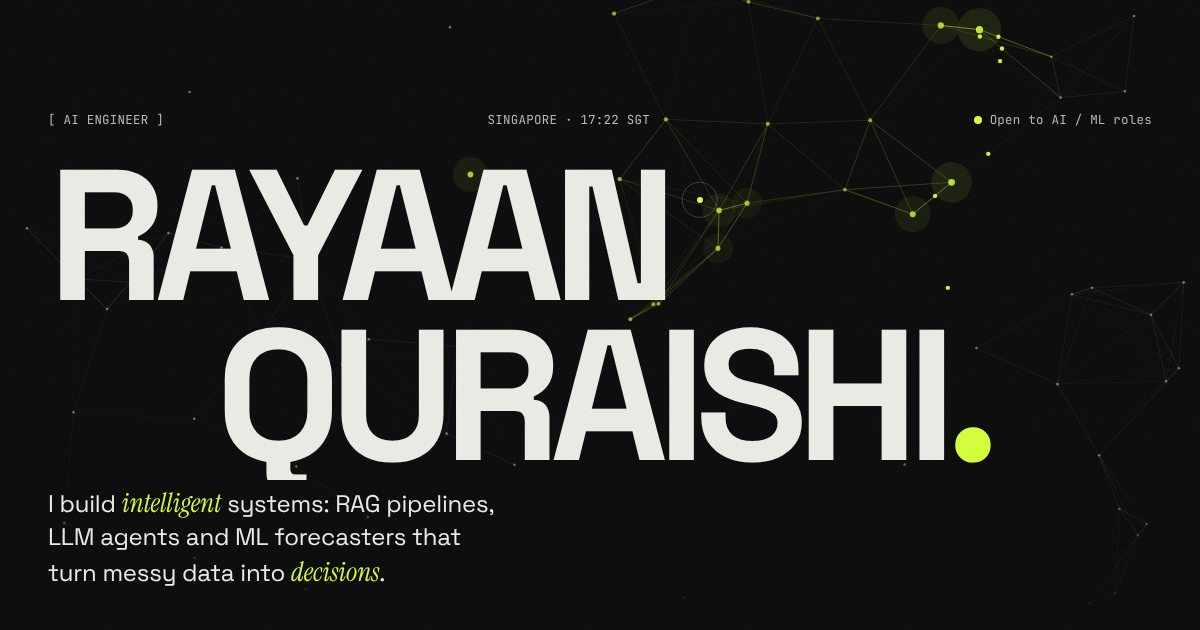
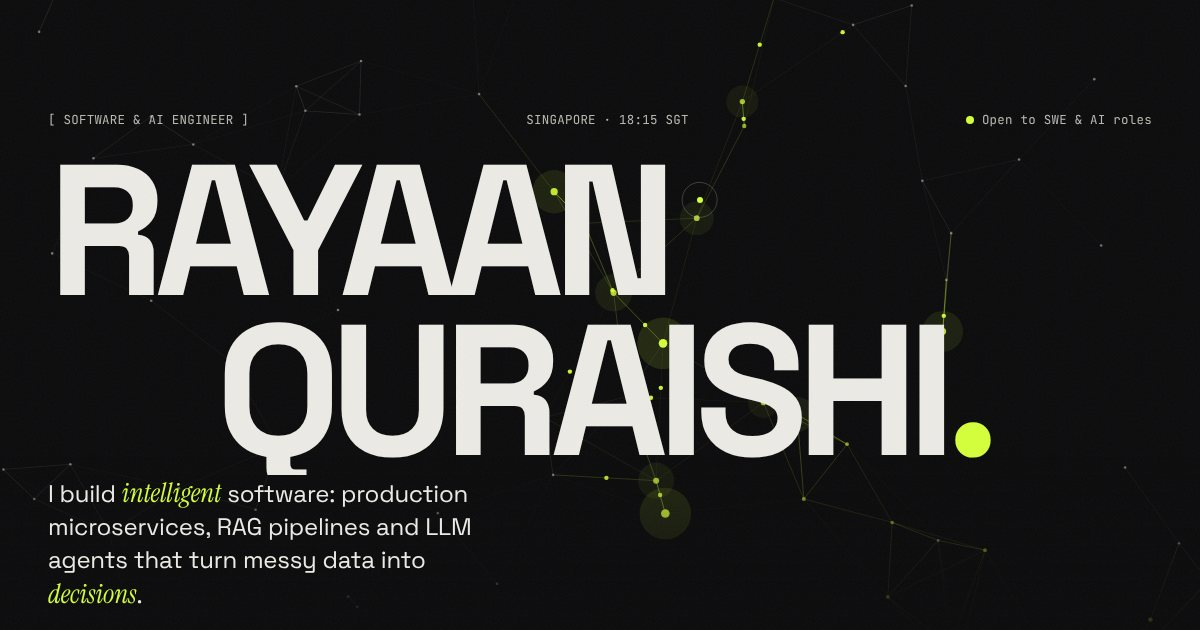
Update content from July 2026 resume
Add the BIOTRONIK Software Developer internship, NUS GPA and updated
coursework, new skills (Java, JUnit, Mockito, Azure, Kubernetes,
GitHub Actions, Grafana), and position the site for Software
Development and AI Engineering roles.

diff --git a/index.html b/index.html
@@ -3,15 +3,15 @@
 <head>
   <meta charset="utf-8" />
   <meta name="viewport" content="width=device-width, initial-scale=1, viewport-fit=cover" />
-  <title>Rayaan Quraishi — AI Engineer</title>
-  <meta name="description" content="Rayaan Quraishi — AI engineer and MComp (AI) student at NUS. I build RAG pipelines, LLM agents and ML forecasting systems." />
+  <title>Rayaan Quraishi — Software &amp; AI Engineer</title>
+  <meta name="description" content="Rayaan Quraishi — software and AI engineer, MComp (AI) student at NUS and Software Developer Intern at BIOTRONIK. Open to Software Development and AI Engineering roles." />
   <meta name="author" content="Rayaan Quraishi" />
   <meta name="theme-color" content="#0b0b0c" />
   <link rel="canonical" href="https://rayaanq.github.io/Portfolio/" />
 
   <meta property="og:type" content="website" />
-  <meta property="og:title" content="Rayaan Quraishi — AI Engineer" />
-  <meta property="og:description" content="RAG pipelines, LLM agents and ML forecasters that turn messy data into decisions." />
+  <meta property="og:title" content="Rayaan Quraishi — Software &amp; AI Engineer" />
+  <meta property="og:description" content="Production microservices, RAG pipelines and LLM agents. Open to Software Development and AI Engineering roles." />
   <meta property="og:url" content="https://rayaanq.github.io/Portfolio/" />
   <meta property="og:image" content="https://rayaanq.github.io/Portfolio/assets/img/og.jpg" />
   <meta name="twitter:card" content="summary_large_image" />
@@ -39,7 +39,7 @@
     "@context": "https://schema.org",
     "@type": "Person",
     "name": "Rayaan Quraishi",
-    "jobTitle": "AI Engineer",
+    "jobTitle": "Software & AI Engineer",
     "email": "mailto:rayyaanquraishi@gmail.com",
     "address": { "@type": "PostalAddress", "addressLocality": "Singapore" },
     "alumniOf": ["National University of Singapore", "University of Mumbai"],
@@ -93,9 +93,9 @@
     <section class="hero" id="top">
       <canvas class="hero__canvas" id="neural" aria-hidden="true"></canvas>
       <div class="hero__meta mono">
-        <span>[ AI ENGINEER ]</span>
+        <span>[ SOFTWARE &amp; AI ENGINEER ]</span>
         <span class="hide-sm">SINGAPORE · <span id="clock">--:--</span> SGT</span>
-        <span class="status"><i></i>Open to AI / ML roles</span>
+        <span class="status"><i></i>Open to SWE &amp; AI roles</span>
       </div>
 
       <h1 class="hero__title" aria-label="Rayaan Quraishi">
@@ -105,7 +105,7 @@
 
       <div class="hero__bottom">
         <p class="hero__lede">
-          I build <em class="serif">intelligent</em> systems: RAG pipelines, LLM agents and ML forecasters
+          I build <em class="serif">intelligent</em> software: production microservices, RAG pipelines and LLM agents
           that turn messy data into <em class="serif">decisions</em>.
         </p>
         <div class="hero__role mono" aria-live="polite">
@@ -127,7 +127,7 @@
     <!-- ============ MARQUEE ============ -->
     <div class="marquee" aria-hidden="true">
       <div class="marquee__track">
-        <span>LangChain</span><i>✦</i><span>RAG</span><i>✦</i><span>LLM Agents</span><i>✦</i><span>PyTorch</span><i>✦</i><span>TensorFlow</span><i>✦</i><span>FastAPI</span><i>✦</i><span>AWS</span><i>✦</i><span>Docker</span><i>✦</i><span>XGBoost</span><i>✦</i><span>LSTM</span><i>✦</i><span>React</span><i>✦</i><span>Node.js</span><i>✦</i><span>MongoDB</span><i>✦</i><span>Hadoop</span><i>✦</i>
+        <span>LangChain</span><i>✦</i><span>RAG</span><i>✦</i><span>LLM Agents</span><i>✦</i><span>PyTorch</span><i>✦</i><span>TensorFlow</span><i>✦</i><span>FastAPI</span><i>✦</i><span>Spring Boot</span><i>✦</i><span>Java</span><i>✦</i><span>AWS</span><i>✦</i><span>Azure</span><i>✦</i><span>Docker</span><i>✦</i><span>Kubernetes</span><i>✦</i><span>XGBoost</span><i>✦</i><span>LSTM</span><i>✦</i><span>React</span><i>✦</i><span>Node.js</span><i>✦</i><span>MongoDB</span><i>✦</i><span>Hadoop</span><i>✦</i>
         <span>LangChain</span><i>✦</i><span>RAG</span><i>✦</i><span>LLM Agents</span><i>✦</i><span>PyTorch</span><i>✦</i><span>TensorFlow</span><i>✦</i><span>FastAPI</span><i>✦</i><span>AWS</span><i>✦</i><span>Docker</span><i>✦</i><span>XGBoost</span><i>✦</i><span>LSTM</span><i>✦</i><span>React</span><i>✦</i><span>Node.js</span><i>✦</i><span>MongoDB</span><i>✦</i><span>Hadoop</span><i>✦</i>
       </div>
     </div>
@@ -290,9 +290,10 @@
         <h2 class="section__title">About <em class="serif">me</em></h2>
       </header>
       <p class="statement" id="statement">
-        I'm a Master's student in Artificial Intelligence at the National University of Singapore. I came from a
-        Computer Engineering degree in Mumbai, where I graduated with a 9.97/10 GPA. I like the part of AI where models
-        meet the real world: retrieval, agents, evaluation, deployment. The question I keep asking is
+        I'm a Master's student in Artificial Intelligence at the National University of Singapore and a Software
+        Developer Intern at BIOTRONIK, where I help move a medical platform from a monolith to microservices. Before
+        that I earned a Computer Engineering degree in Mumbai with a 9.97/10 GPA. I like the part of software where
+        models meet the real world: retrieval, agents, testing, deployment. The question I keep asking is
         whether the system actually helps someone decide something.
       </p>
 
@@ -310,15 +311,15 @@
         </div>
         <div class="toolbox__group reveal">
           <h3 class="mono">Languages</h3>
-          <ul class="chips"><li>Python</li><li>C++</li><li>JavaScript</li><li>TypeScript</li><li>SQL</li><li>HTML / CSS</li></ul>
+          <ul class="chips"><li>Python</li><li>Java</li><li>C++</li><li>JavaScript</li><li>TypeScript</li><li>SQL</li><li>HTML / CSS</li></ul>
         </div>
         <div class="toolbox__group reveal">
           <h3 class="mono">Backend &amp; Web</h3>
-          <ul class="chips"><li>FastAPI</li><li>Node.js</li><li>Express</li><li>Spring Boot</li><li>React</li><li>Next.js</li><li>Streamlit</li></ul>
+          <ul class="chips"><li>Spring Boot</li><li>FastAPI</li><li>Node.js</li><li>Express</li><li>React</li><li>Next.js</li><li>JUnit</li><li>Mockito</li></ul>
         </div>
         <div class="toolbox__group reveal">
-          <h3 class="mono">Data &amp; Cloud</h3>
-          <ul class="chips"><li>AWS</li><li>Docker</li><li>Apache Hadoop</li><li>MongoDB</li><li>MySQL</li><li>SQLite</li><li>Git</li></ul>
+          <h3 class="mono">Cloud, DevOps &amp; Data</h3>
+          <ul class="chips"><li>AWS</li><li>Azure</li><li>Docker</li><li>Kubernetes</li><li>GitHub Actions</li><li>Grafana</li><li>Apache Hadoop</li><li>MongoDB</li><li>MySQL</li><li>SQLite</li><li>Git</li></ul>
         </div>
       </div>
     </section>
@@ -332,11 +333,19 @@
 
       <ol class="timeline">
         <li class="tl reveal">
+          <div class="tl__when mono">Dec 2025 — Now</div>
+          <div class="tl__what">
+            <h3>Software Developer Intern</h3>
+            <p class="tl__org">BIOTRONIK · Singapore</p>
+            <p>Helping migrate a monolith to <strong>Spring Boot microservices</strong> with JUnit and Mockito test coverage in a regulated medical environment. I also streamline CI/CD with Docker, Kubernetes and Azure, build Grafana dashboards for observability, and help roll out <strong>Claude Code</strong> for AI-assisted development across global teams.</p>
+          </div>
+        </li>
+        <li class="tl reveal">
           <div class="tl__when mono">Aug 2025 — Now</div>
           <div class="tl__what">
-            <h3>Master of Computing, Artificial Intelligence</h3>
+            <h3>Master of Computing, Artificial Intelligence · <span class="accent">GPA 4.67 / 5</span></h3>
             <p class="tl__org">National University of Singapore</p>
-            <p>AI Ethics &amp; Governance · Neural Networks &amp; Deep Learning · Big Data Systems</p>
+            <p>Cloud Computing · Neural Networks &amp; Deep Learning · Big Data Systems</p>
           </div>
         </li>
         <li class="tl reveal">
@@ -429,7 +438,7 @@
         <span class="line">Let's build</span>
         <span class="line"><em class="serif">something</em> smart.</span>
       </h2>
-      <p class="contact__lede">I'm looking for AI / ML engineering roles and research collaborations. If you're working on retrieval, agents or applied ML, I'd love to hear from you.</p>
+      <p class="contact__lede">I'm looking for Software Development and AI Engineering roles. If you're building backend systems, retrieval, agents or applied ML, I'd love to hear from you.</p>
       <div class="contact__actions">
         <button class="email magnetic" id="copyEmail" type="button" data-email="rayyaanquraishi@gmail.com">
           <span class="email__addr">rayyaanquraishi@gmail.com</span>

diff --git a/assets/js/main.js b/assets/js/main.js
@@ -555,7 +555,7 @@
 
   function roles() {
     const el = $('#role');
-    const list = ['MComp AI @ NUS', 'building RAG pipelines', 'shipping LLM agents', 'forecasting with LSTMs', 'AWS Certified Developer', 'open to AI / ML roles'];
+    const list = ['MComp AI @ NUS', 'SWE Intern @ BIOTRONIK', 'building microservices', 'shipping LLM agents', 'building RAG pipelines', 'AWS Certified Developer', 'open to SWE & AI roles'];
     if (reduced) return;
     let i = 0;
     async function type(text) {
@@ -568,6 +568,7 @@
 
   const FACTS = [
     'I moved from Mumbai to Singapore to study AI.',
+    'I help roll out Claude Code to software teams at BIOTRONIK.',
     'I graduated with a 9.97 / 10 GPA. That last 0.03 still haunts me.',
     'I published at a Springer Nature conference before finishing my bachelor\'s.',
     'I was the Tech Head at MUN: mics, projectors and panic.',
@@ -877,7 +878,7 @@
       ['██████   ██████ ', '<span class="accent">guest</span>@<span class="accent">rayaan</span>'],
       ['██   ██ ██    ██', '----------------'],
       ['██████  ██    ██', '<span class="accent">OS</span>: rayaan.os 2026 (vanilla js)'],
-      ['██   ██ ██ ▄▄ ██', '<span class="accent">Host</span>: National University of Singapore'],
+      ['██   ██ ██ ▄▄ ██', '<span class="accent">Host</span>: NUS · BIOTRONIK'],
       ['██   ██  ██████ ', '<span class="accent">Kernel</span>: MComp, Artificial Intelligence'],
       ['            ▀▀  ', '<span class="accent">Shell</span>: python · c++ · javascript'],
       ['                ', '<span class="accent">Packages</span>: langchain, pytorch, fastapi, aws'],
@@ -900,8 +901,8 @@
   <span class="accent">clear</span>        clear the screen
   <span class="accent">exit</span>         close the terminal
 <span class="muted">…and maybe a secret or two. Try sudo.</span>`,
-      whoami: () => 'Rayaan Quraishi: AI engineer, MComp (AI) student at NUS, based in Singapore.',
-      about: () => 'I build intelligent systems: RAG pipelines, LLM agents and ML forecasters.\nB.E. Computer Engineering (GPA 9.97/10), AWS Certified Developer, Springer-published.',
+      whoami: () => 'Rayaan Quraishi: software & AI engineer, MComp (AI) student at NUS, Software Developer Intern at BIOTRONIK, based in Singapore.\nOpen to Software Development and AI Engineering roles.',
+      about: () => 'I build intelligent software: production microservices, RAG pipelines and LLM agents.\nMComp AI @ NUS (GPA 4.67/5), B.E. Computer Engineering (GPA 9.97/10), AWS Certified Developer, Springer-published.',
       projects: () => projects.map((p) => `<span class="accent">[${p.n}]</span> ${esc(p.title)}\n    <span class="muted">${esc(p.desc.slice(0, 96))}…</span>`).join('\n') + '\n\nType <span class="accent">open &lt;n&gt;</span> for the case study.',
       open: (arg) => {
         const p = projects.find((x) => String(x.n) === arg || x.id === arg);

diff --git a/README.md b/README.md
@@ -2,7 +2,7 @@
 
 # Rayaan Quraishi — Portfolio
 
-**AI engineer · MComp (AI) @ NUS · building RAG pipelines, LLM agents and ML forecasters**
+**Software & AI engineer · MComp (AI) @ NUS · SWE Intern @ BIOTRONIK · open to Software Development and AI Engineering roles**
 
 [**→ rayaanq.github.io/Portfolio**](https://rayaanq.github.io/Portfolio/)
 
